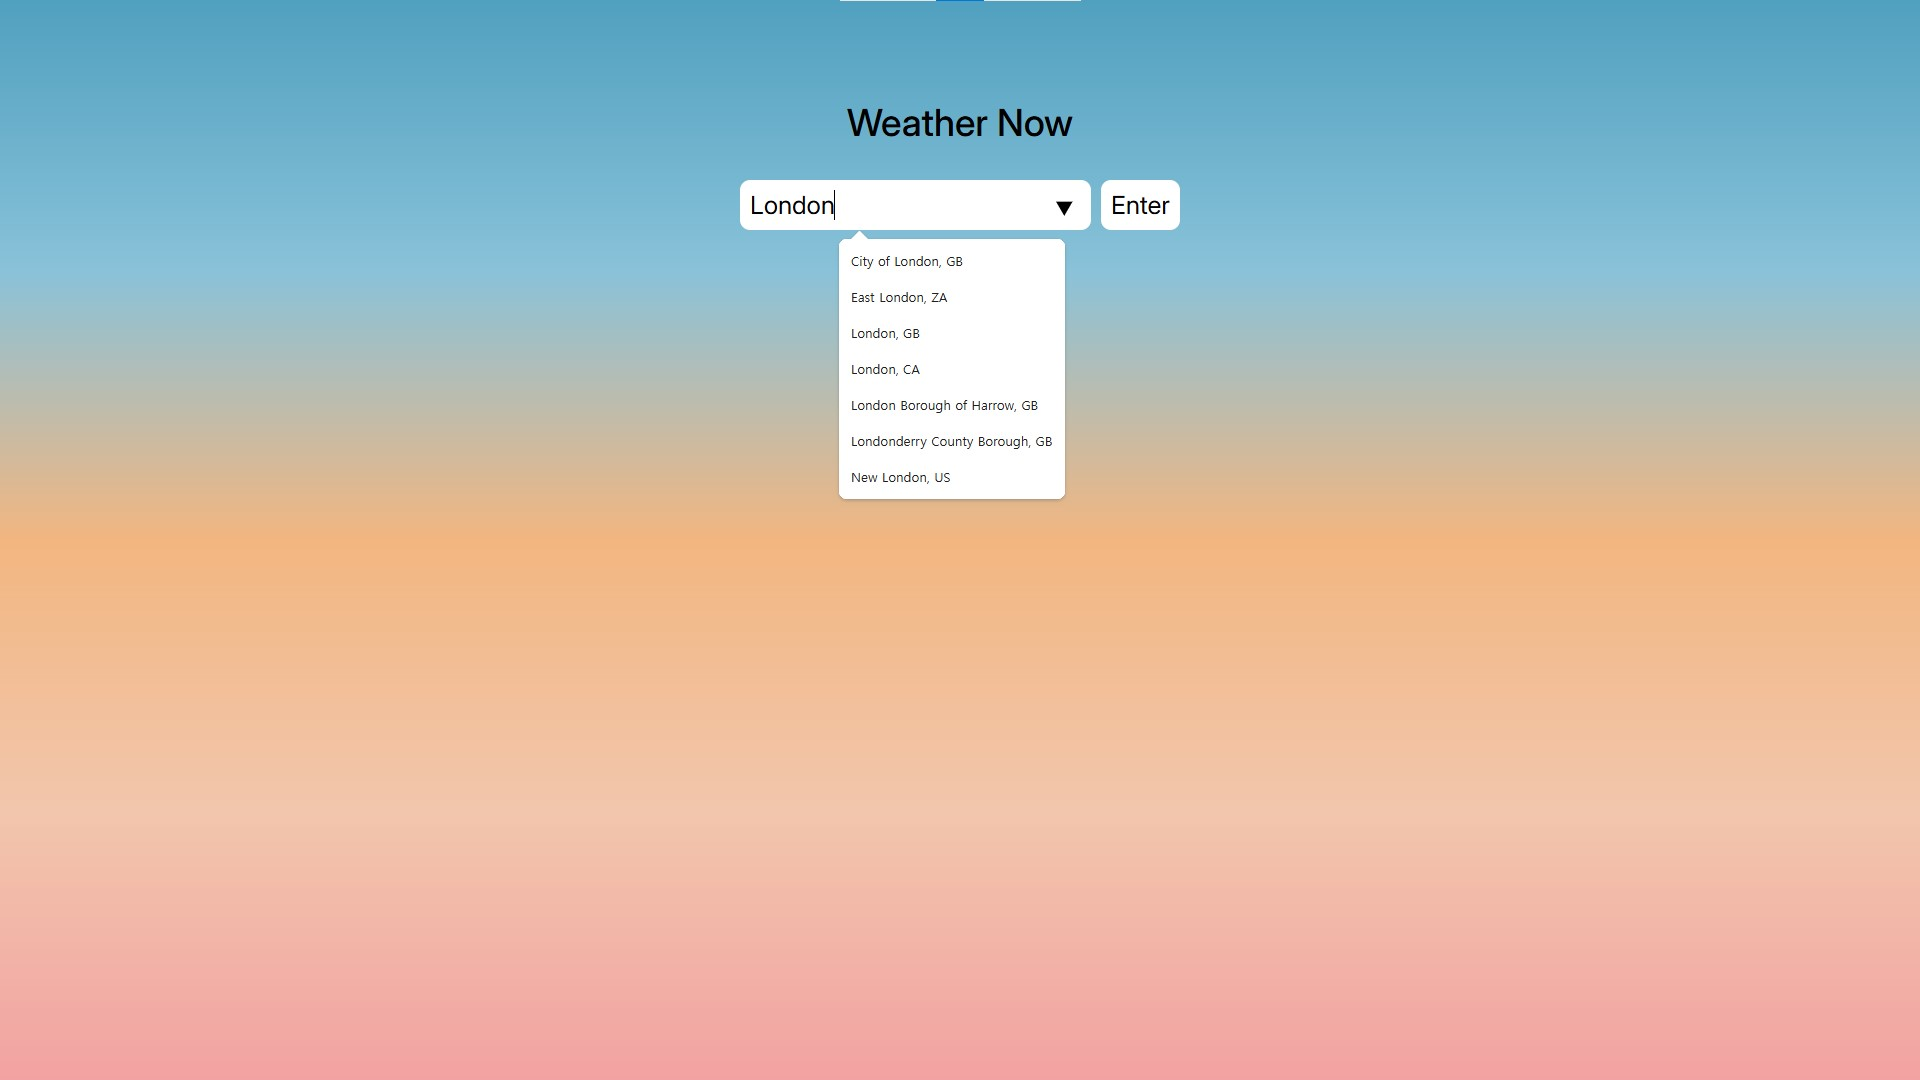
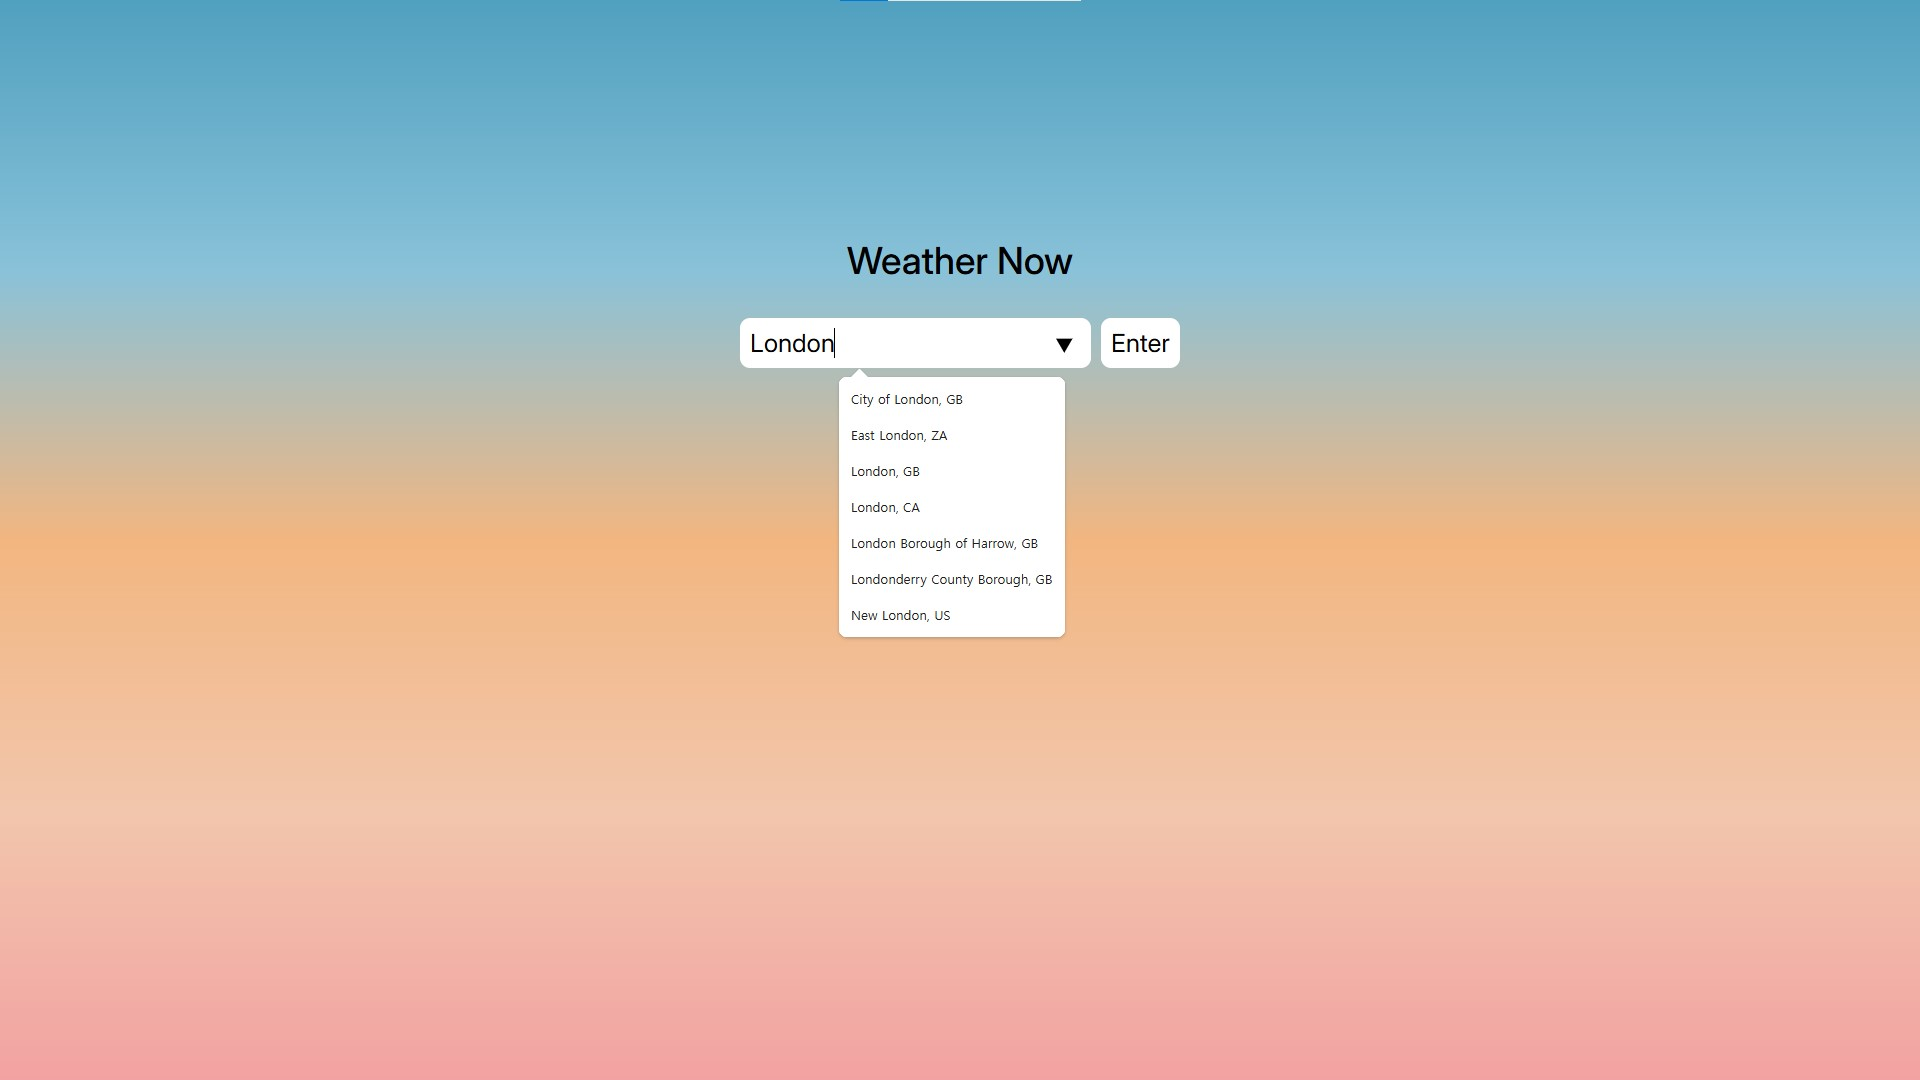
update css

Changed region(s): [[0.375, 0.1528, 0.625, 0.6111], [0.4375, 0.0917, 0.5625, 0.1222]]

diff --git a/public/index.css b/public/index.css
@@ -15,6 +15,9 @@
 
 body {
   min-height: 100vh;
+  display: flex;
+  justify-content: center;
+  align-items: center;
   font-family: var(--font-family);
   font-size: var(--font-size);
   background-image: linear-gradient(
@@ -27,7 +30,7 @@ body {
 }
 
 main {
-  padding: 100px;
+  /* padding: 100px; */
   display: flex;
   flex-direction: column;
   gap: 50px;
@@ -106,7 +109,12 @@ h2 {
   font-weight: var(--h2-font-weight);
 }
 
-@media (max-width: 370px) {
+@media (max-width: 670px) {
+  main {
+    padding: 50px 0;
+    width: 90%;
+  }
+
   input {
     width: 100%;
   }
